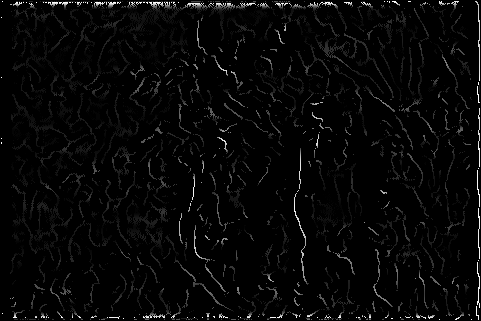
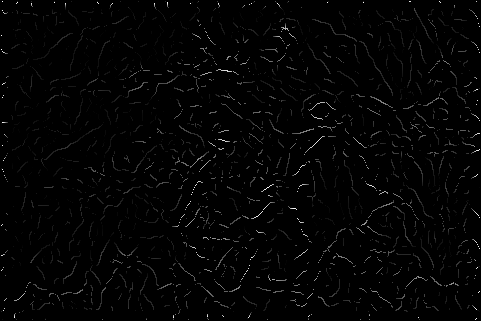
Added Hysteresis Algorithm

diff --git a/Assignment_01/Assignment_01.py b/Assignment_01/Assignment_01.py
@@ -8,37 +8,19 @@ Subject: Canny Edge Detection Implementation [5 pts]
 
 Tasks:
     1. Choose three example gray-scale images from Berkeley Segmentation Dataset (Training Images). When executed, your algorithm should plot intermediate and final results of Canny Edge Detection process as similar to the figure illustrated above.
+        # Image Source: https://www2.eecs.berkeley.edu/Research/Projects/CS/vision/bsds/BSDS300/html/dataset/images.html
 
     2. Please show the effect of threshold(sigma) in edge detection by choosing three different threshold(sigma) values when smoothing. Note that you need to indicate which threshold works best as a comment in your assignment.
 
 
-Theory: 
+Assignment Details: 
 
-    1. Noise Reduction
-    2. Gradient Calculation
-    3. Non-maximum suppression
-    4. Double threshold
-    Edge Tracking by Hysteresis
-
-
-Assignment Details:
-
-# 1. Read a grey scale image that can be found from the Berkeley Segmentation Dataset, Training Images, and store it as a matric named I
-        # Link: https://www2.eecs.berkeley.edu/Research/Projects/CS/vision/bsds/BSDS300/html/dataset/images.html
-
-# Source: https://towardsdatascience.com/canny-edge-detection-step-by-step-in-python-computer-vision-b49c3a2d8123
-
-# 2. Noise Reduction: Create a one-dimensional Gaussian mask G to convolve with I. The standard Deviation(s) of this Gaussian is a parameter to the edge detector (call it std > 0)
-
-# 3. Gradient: Create a one-dimensional mask for the first derivative of the Gaussian in the x and y directions; call these G_x and G_y. The same std > 0 value is used as in step 2
-
-# 4. Convolve I_x with G_x to give I'_x, the x component of I convolved with the derivative of the Gaussian, and convolve I_y with G_y  to give the I'_y component of I convolved with the derivative of the Gaussian
-
-# 5. Compute the magnitude of the edge response by combining the x and y components. The magnitude of the result can be computed at each pixel (x,y) as M(x,y) = (I'_y**.5 + I'x**.5)**.5
-
-# 6. Implement the non-maximimum suppression algorithm that we discussed in the lecture. Pixels that are not local maxima should be removed with this method. In other words, not all the pixels indicating strong magnitude are edges in fact We need to remove false positive edge locations from the image.
-
-# 7. Apply Hysteresis thresholding to obtain the final edge-map. You may use any existing library function to compute connected components.
+    1. Implement Noise Reduction using the Gaussian Blur Filter
+    2. Implement a Gradient Filter Using the Derivative of the Gaussian Blur Filter
+    3. Calculate the Magnitude and Orientation of the Images which have been blurred and had the Gradient Filter Applied
+    4. Implement a Non-maximum suppression Filter using the Magnitude and Orientation of the Images
+    5. Implement the Double threshold Algorithm
+    6. Implement Edge Tracking by Hysteresis 
 
 """
 
@@ -137,7 +119,10 @@ for image in images:
     im_blurred = convolution(im, gaussian_filter(2))
 
     # Save the images into the folder:
-    plt.imsave(f"Assignment_01/Blurred_Images/{index}_blurred.jpg",im_blurred.astype(np.uint8),cmap=plt.cm.Greys_r)
+    plt.imsave(f"Assignment_01/Blurred_Images/{index}_blurred.jpg",
+               im_blurred.astype(np.uint8),
+               cmap=plt.cm.Greys_r
+            )
 
 
 
@@ -206,8 +191,14 @@ for image in images:
         im_filtered_y = convolution(im, gaussian_filter_partial_derivative_y(2))
         im_filtered_x = convolution(im, gaussian_filter_partial_derivative_x(2))
     # Save the images into the folder:
-    plt.imsave(f"Assignment_01/Edged_Images_y/{index}_edged_y.jpg",im_filtered_y.astype(np.uint8),cmap=plt.cm.Greys_r)
-    plt.imsave(f"Assignment_01/Edged_Images_x/{index}_edged_x.jpg",im_filtered_x.astype(np.uint8),cmap=plt.cm.Greys_r)
+    plt.imsave(f"Assignment_01/Edged_Images_y/{index}_edged_y.jpg",
+               im_filtered_y.astype(np.uint8),
+               cmap=plt.cm.Greys_r
+            )
+    plt.imsave(f"Assignment_01/Edged_Images_x/{index}_edged_x.jpg",
+               im_filtered_x.astype(np.uint8),
+               cmap=plt.cm.Greys_r
+            )
 
 
 
@@ -234,7 +225,7 @@ def imageMagnitudeandOrientation(image,standard_deviation):
       orientation = np.arctan(im_filtered_y,im_filtered_x)
 
       
-      return (magnitude.astype(np.uint8),orientation.astype(np.uint8))
+      return (magnitude,orientation)
 
 input_folder = 'Assignment_01/Images'
 images = Path(input_folder).glob('*.jpg')
@@ -243,8 +234,14 @@ index = 0
 for im in images:
      index += 1
      magnitude,orientation = imageMagnitudeandOrientation(im,4)
-     plt.imsave(f"Assignment_01/Magnitude_Images/{index}_magnitude.png",magnitude.astype(np.uint8),cmap=plt.cm.Greys_r)
-     plt.imsave(f"Assignment_01/Orientation_Images/{index}_orientation.png",orientation.astype(np.uint8),cmap=plt.cm.Greys_r)
+     plt.imsave(f"Assignment_01/Magnitude_Images/{index}_magnitude.png",
+                magnitude.astype(np.uint8),
+                cmap=plt.cm.Greys_r
+            )
+     plt.imsave(f"Assignment_01/Orientation_Images/{index}_orientation.png",
+                orientation.astype(np.uint8),
+                cmap=plt.cm.Greys_r
+            )
      
 
 
@@ -267,7 +264,7 @@ def sobelImage(images):
      magnitude = np.sqrt(im_filtered_x**2 + im_filtered_y**2)
      orientation = np.arctan(im_filtered_y,im_filtered_x)
 
-     return(magnitude.astype(np.uint8), orientation.astype(np.uint8))
+     return(magnitude, orientation)
 
 input_folder = 'Assignment_01/Images'
 images = Path(input_folder).glob('*.jpg')
@@ -276,8 +273,14 @@ index = 0
 for im in images:
      index += 1
      magnitude,orientation = sobelImage(im)
-     plt.imsave(f"Assignment_01/Magnitude_Sobel_Images/{index}_magnitude_sobel.png",magnitude.astype(np.uint8),cmap=plt.cm.Greys_r)
-     plt.imsave(f"Assignment_01/Orientation_Sobel_Images/{index}_orientation_sobel.png",orientation.astype(np.uint8),cmap=plt.cm.Greys_r)
+     plt.imsave(f"Assignment_01/Magnitude_Sobel_Images/{index}_magnitude_sobel.png",
+                magnitude.astype(np.uint8),
+                cmap=plt.cm.Greys_r
+            )
+     plt.imsave(f"Assignment_01/Orientation_Sobel_Images/{index}_orientation_sobel.png",
+                orientation.astype(np.uint8),
+                cmap=plt.cm.Greys_r
+            )
      
      
 
@@ -299,15 +302,15 @@ def non_max_suppression(image,standard_deviation):
 
         img_magnitude,img_orientation = imageMagnitudeandOrientation(image,standard_deviation)
 
-        M,N = img_magnitude.shape
+        m,n = img_magnitude.shape
 
-        im_nms = np.zeros((M,N), dtype=np.float32)
+        im_nms = np.zeros((m,n), dtype=np.float32)
         angle = img_orientation * 180. / np.pi
         angle[angle < 0] += 180
 
 
-        for i in range(1,M-1):
-            for j in range(1,N-1):
+        for i in range(1,m-1):
+            for j in range(1,n-1):
                 try:
                     q = 255
                     r = 255
@@ -338,7 +341,7 @@ def non_max_suppression(image,standard_deviation):
                 except IndexError as e:
                     pass
 
-        return im_nms.astype(np.uint8)
+        return im_nms
 
     
 # Apply to the Images
@@ -349,7 +352,10 @@ index = 0
 for im in images:
      index += 1
      im_non_max_suppression = non_max_suppression(im,4)
-     plt.imsave(f"Assignment_01/Non_Max_Suppression_Images/{index}_NMS.png",im_non_max_suppression.astype(np.uint8),cmap=plt.cm.Greys_r)
+     plt.imsave(f"Assignment_01/Non_Max_Suppression_Images/{index}_NMS.png",
+                im_non_max_suppression.astype(np.uint8),
+                cmap=plt.cm.Greys_r
+                )
 
 
 
@@ -371,46 +377,69 @@ Uses a high and low threshold value to suppress the detection of false edges.
 
 """
 
-def threshold(self, img):
+def threshold(image, standard_deviation,low_threshold,high_threshold,weak_pixel,strong_pixel):
 
-    highThreshold = img.max() * self.highThreshold;
-    lowThreshold = highThreshold * self.lowThreshold;
+    non_max_suppression_image = non_max_suppression(image,standard_deviation)
 
-    M, N = img.shape
-    res = np.zeros((M,N), dtype=np.int32)
+    high_threshold = non_max_suppression_image.max() * high_threshold;
+    low_threshold = high_threshold * low_threshold;
 
-    weak = np.int32(self.weak_pixel)
-    strong = np.int32(self.strong_pixel)
+    m, n = non_max_suppression_image.shape
+    img_threshold = np.zeros((m,n), dtype=np.int32)
 
-    strong_i, strong_j = np.where(img >= highThreshold)
-    zeros_i, zeros_j = np.where(img < lowThreshold)
+    weak = np.int32(weak_pixel)
+    strong = np.int32(strong_pixel)
 
-    weak_i, weak_j = np.where((img <= highThreshold) & (img >= lowThreshold))
+    strong_i, strong_j = np.where(non_max_suppression_image >= high_threshold)
+    zeros_i, zeros_j = np.where(non_max_suppression_image < low_threshold)
 
-    res[strong_i, strong_j] = strong
-    res[weak_i, weak_j] = weak
+    weak_i, weak_j = np.where((non_max_suppression_image <= high_threshold) & (non_max_suppression_image >= low_threshold))
 
-    return (res)
+    img_threshold[strong_i, strong_j] = strong
+    img_threshold[weak_i, weak_j] = weak
+
+    return img_threshold
 
 
-def hysteresis(img):
 
-    M, N = img.shape
-    weak = self.weak_pixel
-    strong = self.strong_pixel
+def hysteresis(image, standard_deviation,low_threshold, high_threshold, weak_pixel,strong_pixel):
 
-    for i in range(1, M-1):
-        for j in range(1, N-1):
-            if (img[i,j] == weak):
+    hysteresis_img = threshold(image,standard_deviation,low_threshold,high_threshold,weak_pixel,strong_pixel)
+
+    m, n = hysteresis_img.shape
+    weak = weak_pixel
+    strong = strong_pixel
+
+    for i in range(1, m-1):
+        for j in range(1, n-1):
+            if (hysteresis_img[i,j] == weak):
                 try:
-                    if ((img[i+1, j-1] == strong) or (img[i+1, j] == strong) or (img[i+1, j+1] == strong)
-                        or (img[i, j-1] == strong) or (img[i, j+1] == strong)
-                        or (img[i-1, j-1] == strong) or (img[i-1, j] == strong) or (img[i-1, j+1] == strong)):
-                            img[i, j] = strong
+                    if ((hysteresis_img[i+1, j-1] == strong) or (hysteresis_img[i+1, j] == strong) or (hysteresis_img[i+1, j+1] == strong)
+                        or (hysteresis_img[i, j-1] == strong) or (hysteresis_img[i, j+1] == strong)
+                        or (hysteresis_img[i-1, j-1] == strong) or (hysteresis_img[i-1, j] == strong) or (hysteresis_img[i-1, j+1] == strong)):
+                            hysteresis_img[i, j] = strong
                     else:
-                            img[i, j] = 0
+                            hysteresis_img[i, j] = 0
                 except IndexError as e:
                         pass
 
-    return img
+    return hysteresis_img
 
+# Apply to the Images
+input_folder = 'Assignment_01/Images'
+images = Path(input_folder).glob('*.jpg')
+index = 0
+
+for im in images:
+     index += 1
+     im_hysteresis = hysteresis(image=im,
+                                standard_deviation=4,
+                                low_threshold=0.05,
+                                high_threshold=0.15,
+                                weak_pixel=25,
+                                strong_pixel=255
+                            )
+     plt.imsave(f"Assignment_01/Hysteresis_Images/{index}_Hysteresis.png",
+                im_hysteresis.astype(np.uint8),
+                cmap=plt.cm.Greys_r
+            )
